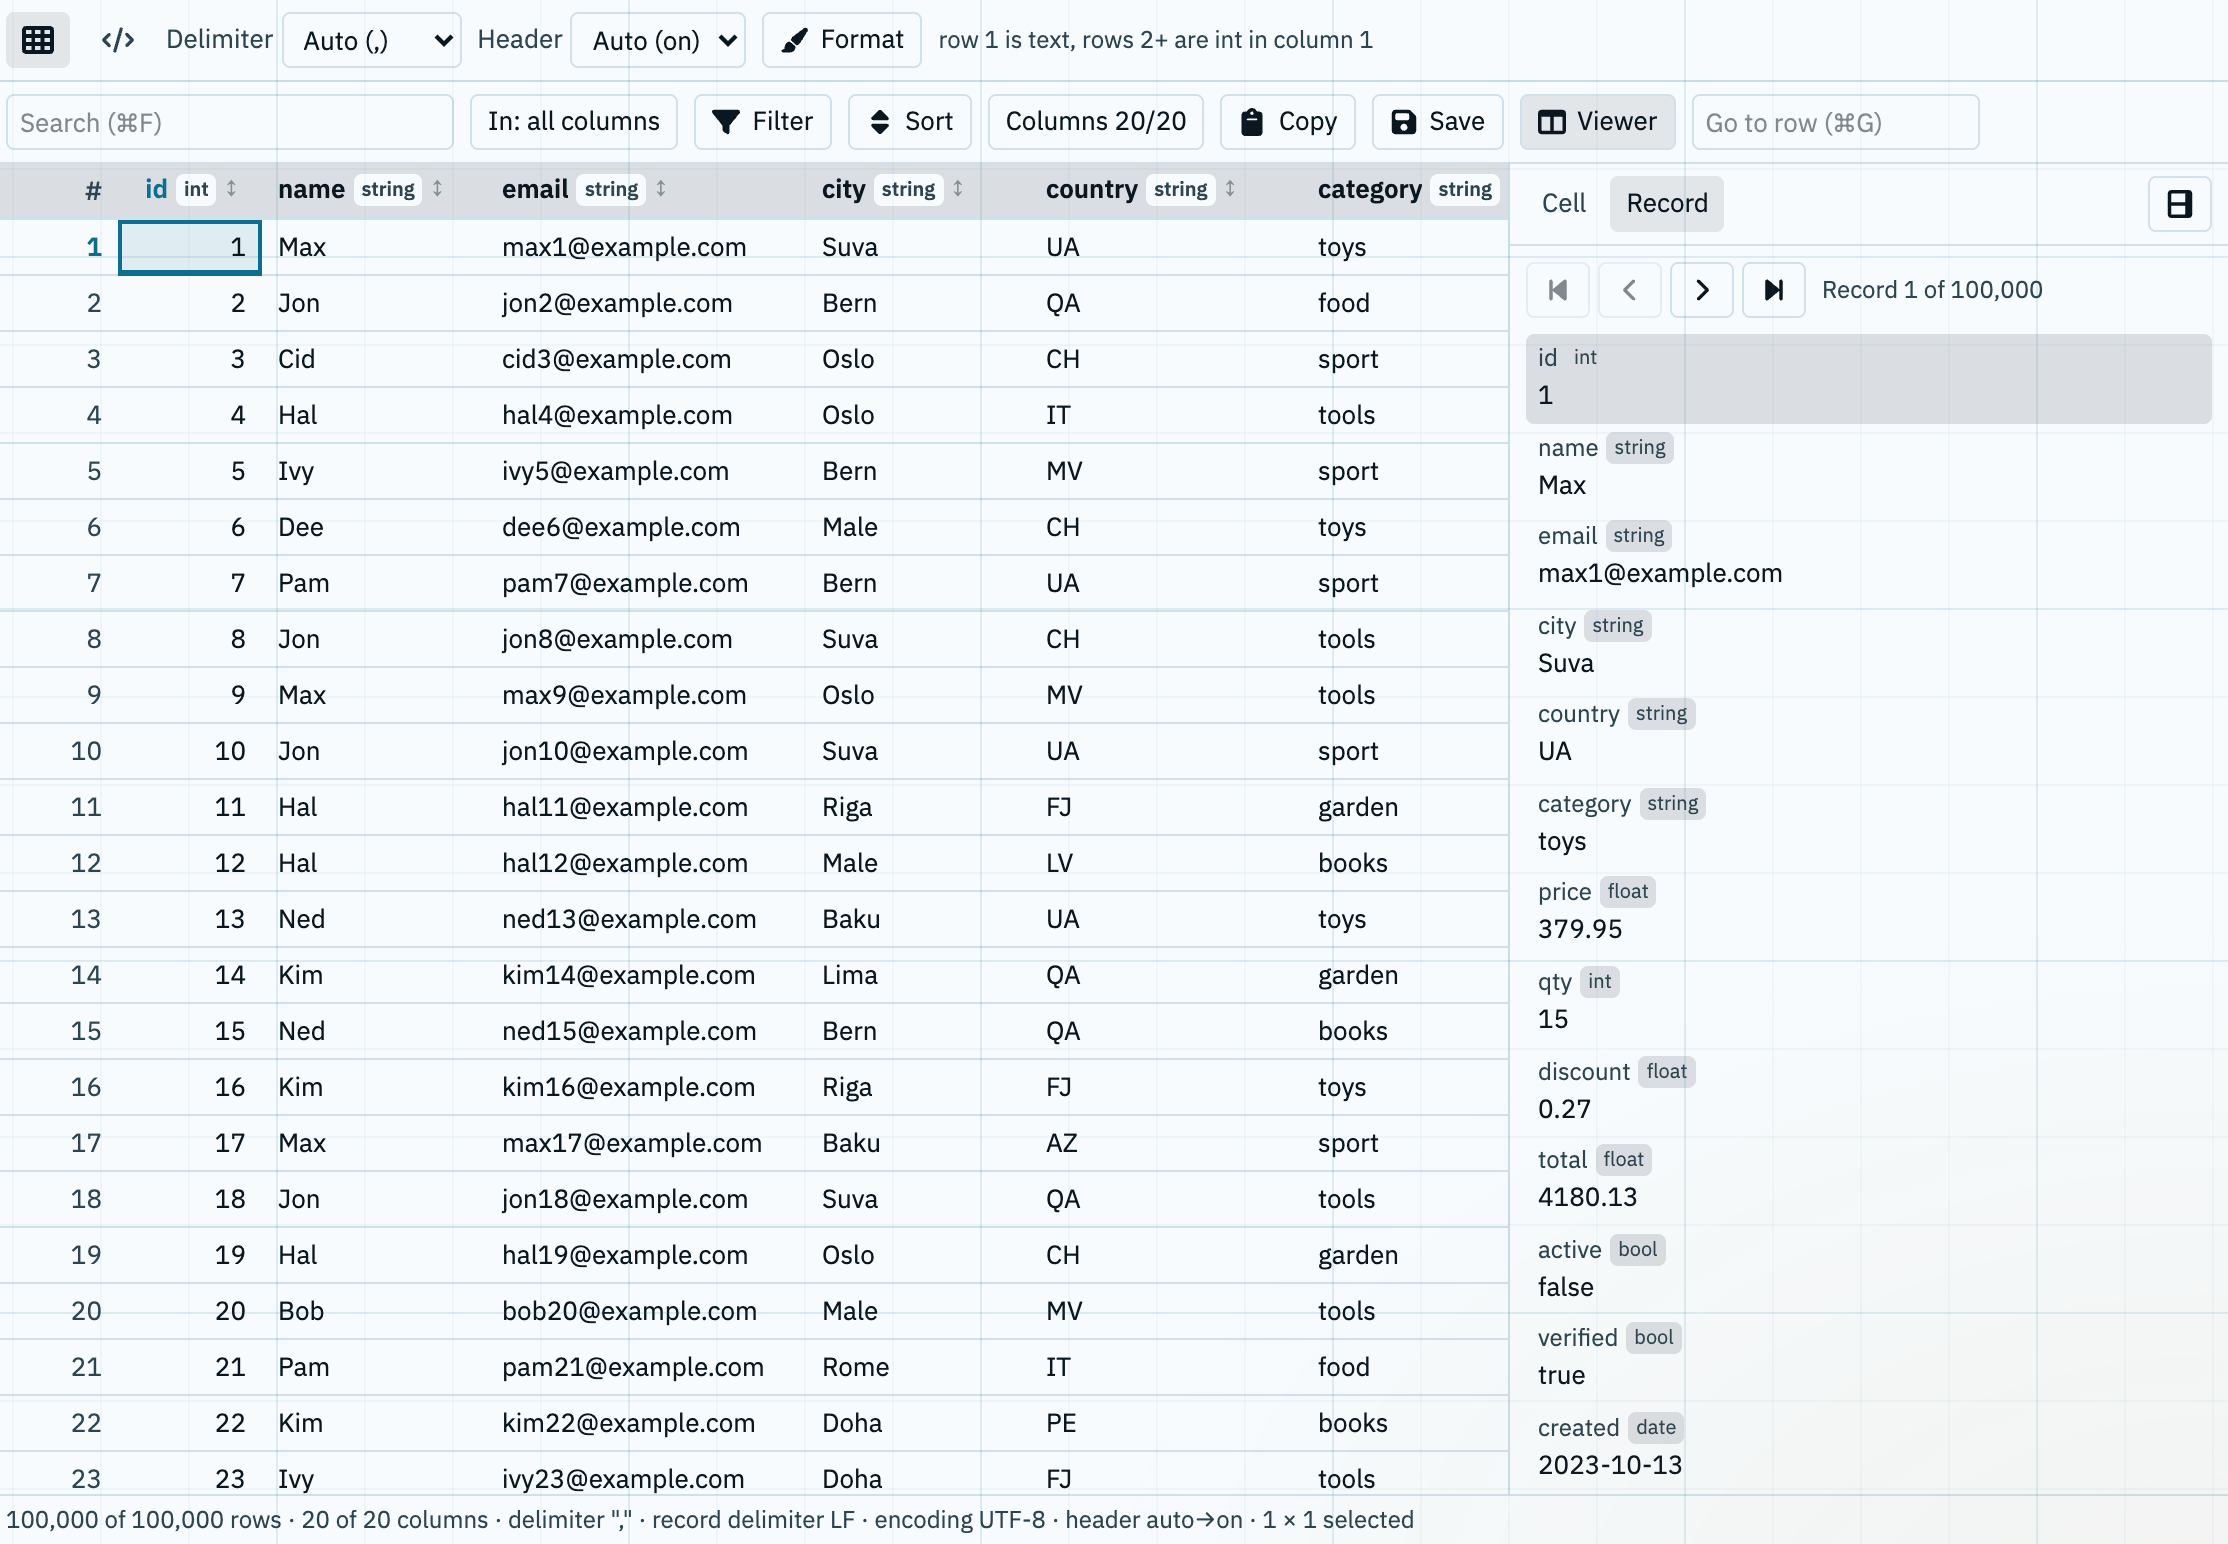
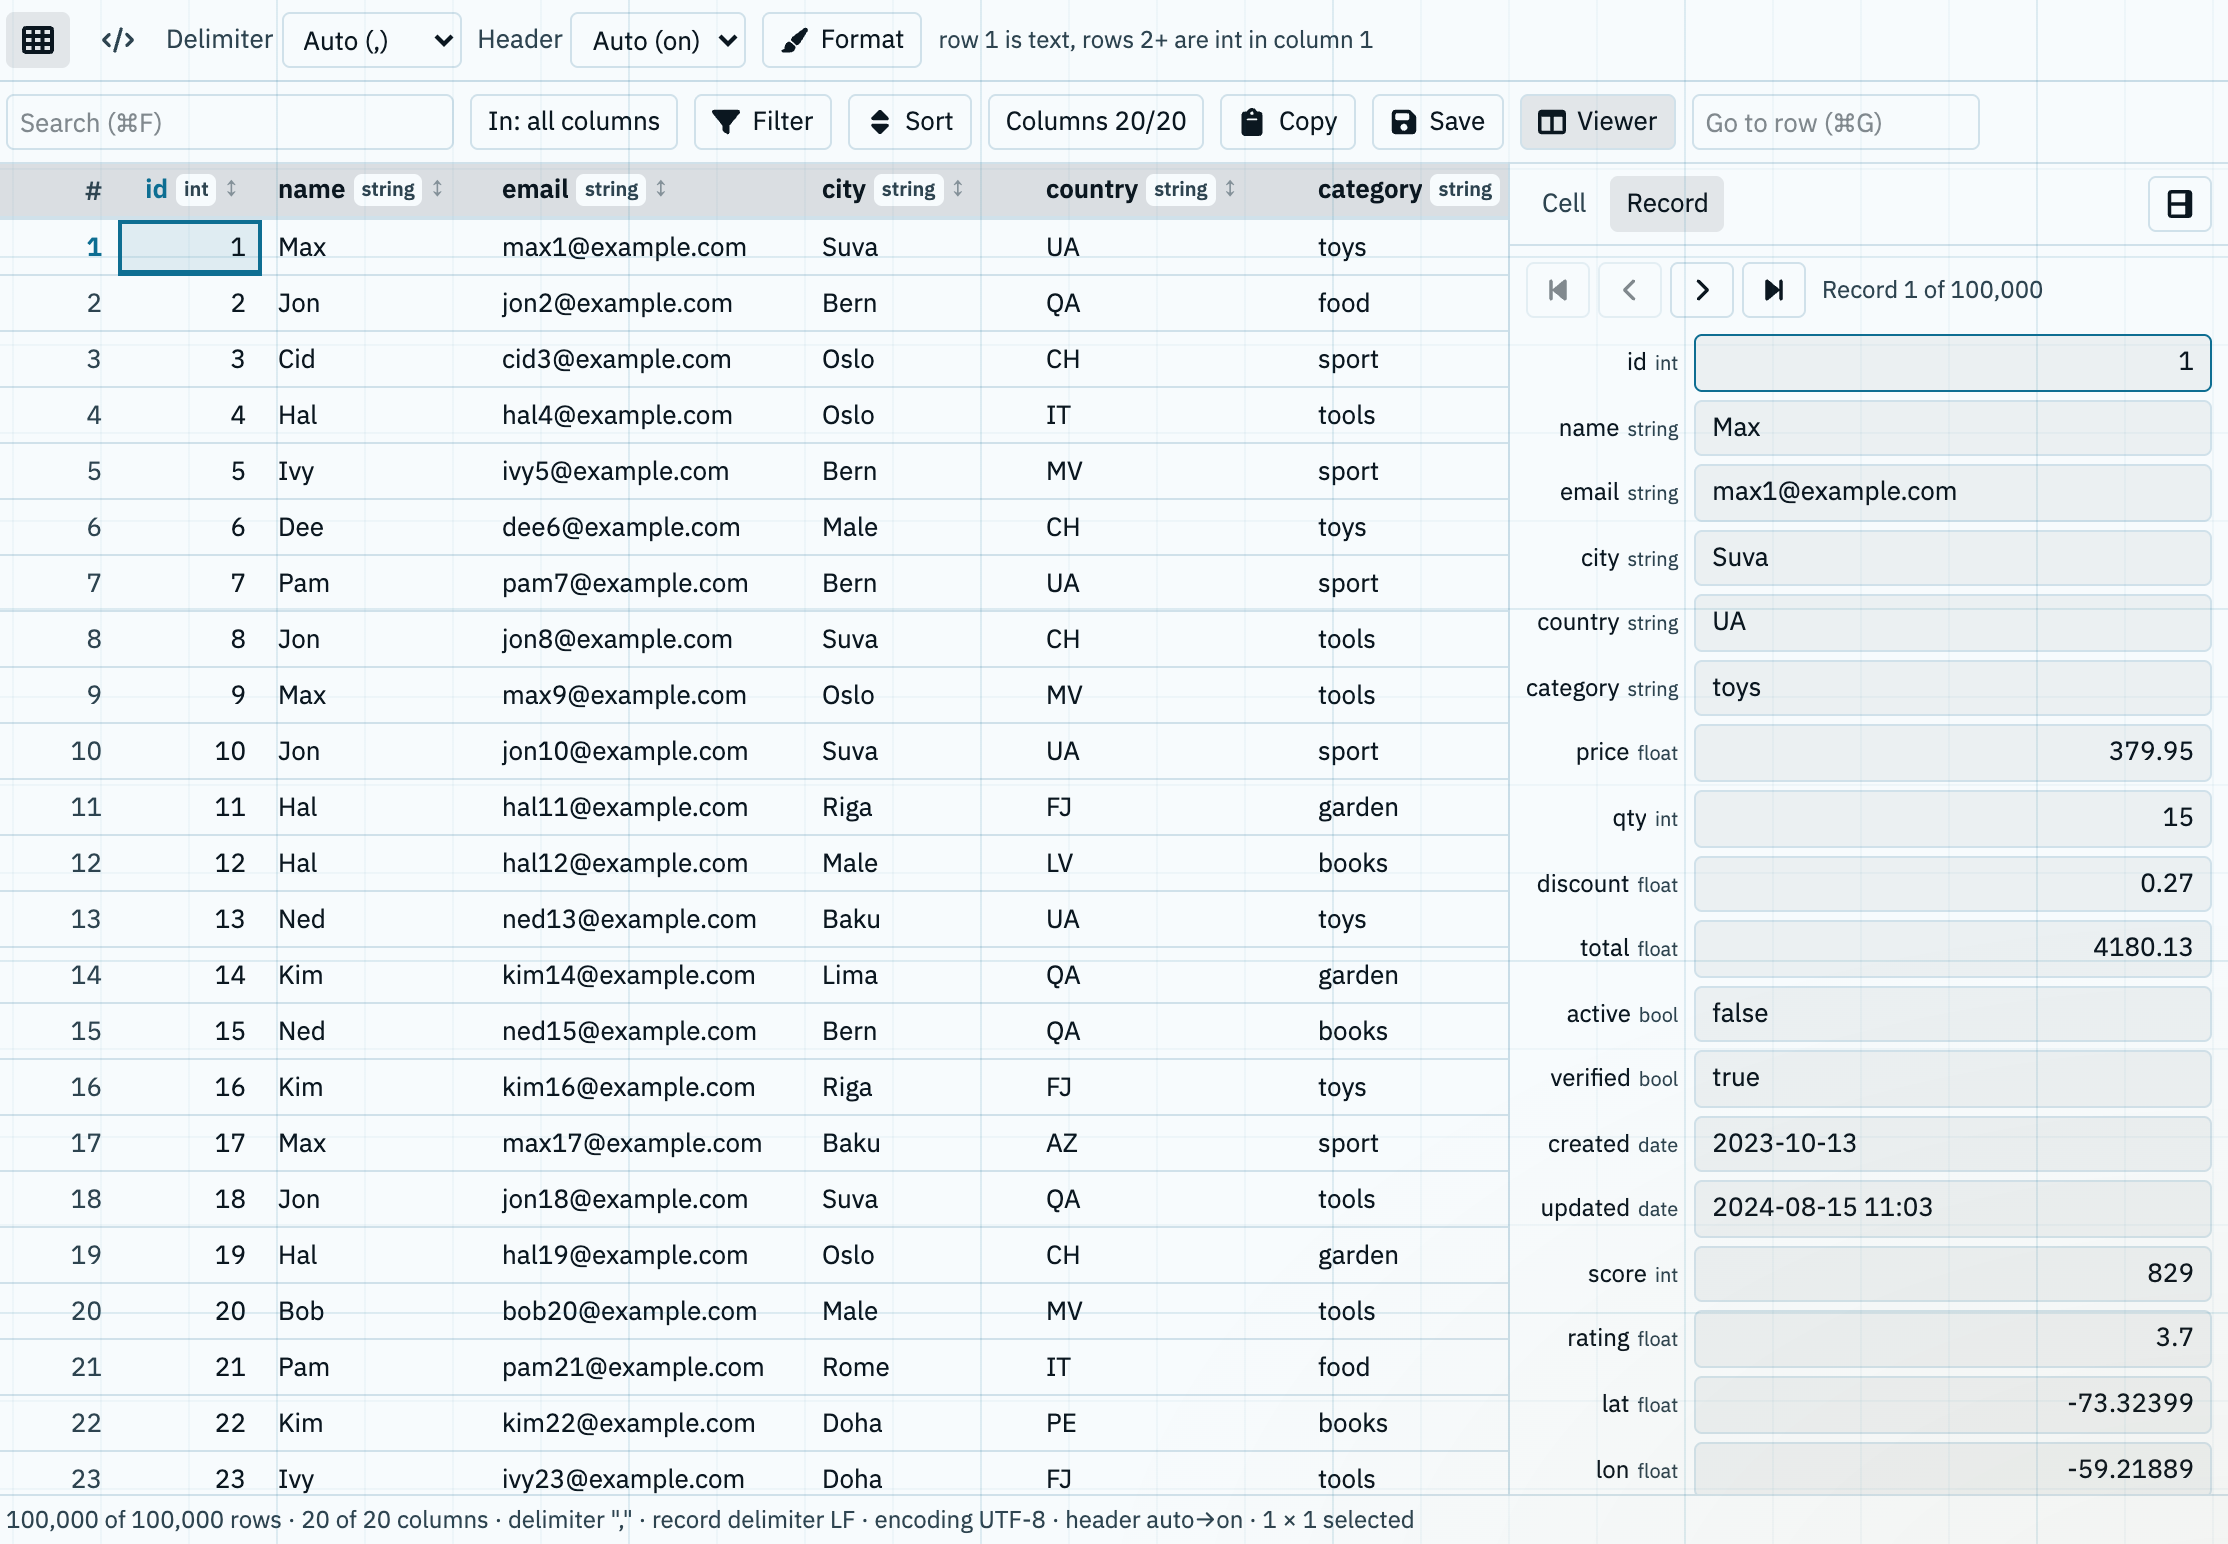
0.9.2 chunk 2: README and screenshot with the Record form
The Viewer bullet says that the Record tab is a read-only form.
screenshot.png shows the form, with the pane on the right and row 1
active. It is a clip of the dsv plugin only. The user approved it.

diff --git a/README.md b/README.md
@@ -2,9 +2,9 @@
 
 Opens CSV, TSV, and other delimited files as a typed, searchable, filterable grid.
 
-![DSV Table showing a sample CSV file with 100,000 rows and 20 columns, and the Viewer pane with the record of row 1](screenshot.png)
+![DSV Table showing a sample CSV file with 100,000 rows and 20 columns, and the Viewer pane with the record of row 1 as a read-only form](screenshot.png)
 
-The image shows a synthetic sample file: 100,000 rows × 20 columns, 15 MB. The names, cities, and `@example.com` emails are not real. The Viewer pane on the right shows row 1 on the Record tab.
+The image shows a synthetic sample file: 100,000 rows × 20 columns, 15 MB. The names, cities, and `@example.com` emails are not real. The Viewer pane on the right shows row 1 on the Record tab, as a read-only form.
 
 ## Features
 
@@ -21,7 +21,7 @@ The image shows a synthetic sample file: 100,000 rows × 20 columns, 15 MB. The 
 - **Columns:** show or hide each column. Drag a column edge to resize it. Double-click the edge to fit the column to its content: the longest values in the rows you see, and the column name.
 - **Select and copy, as in a spreadsheet:** cells, rows, or columns. Copy gives tab-separated text, with or without the column names.
 - **Save:** downloads the rows you see (search, filters, and sort applied) and the shown columns as a UTF-8 CSV file.
-- **Viewer:** a pane on the right of the grid or below it. A switch in the pane moves it. The plugin remembers the side. The Cell tab shows the whole value of the active cell, with its line breaks and character count. The Record tab shows the active row, one line per column. Its First, Previous, Next, and Last buttons move through the rows you see.
+- **Viewer:** a pane on the right of the grid or below it. A switch in the pane moves it. The plugin remembers the side. The Cell tab shows the whole value of the active cell, with its line breaks and character count. The Record tab shows the active row as a read-only form: a label and a boxed value for each column. Its First, Previous, Next, and Last buttons move through the rows you see.
 - **Go to row:** moves a row number to the top, marks it, and makes it the active row.
 
 ## Keys
